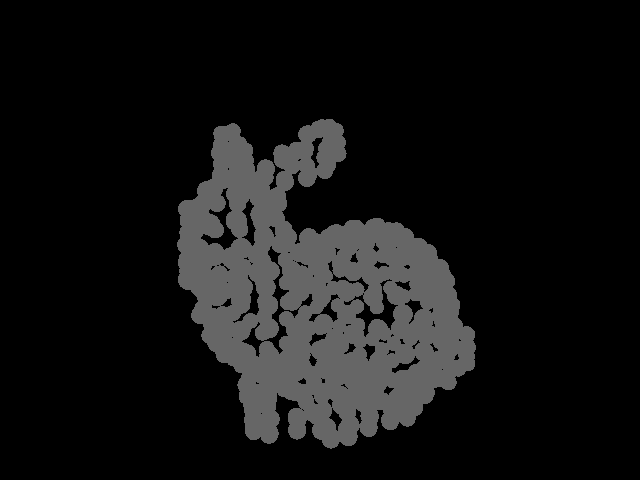
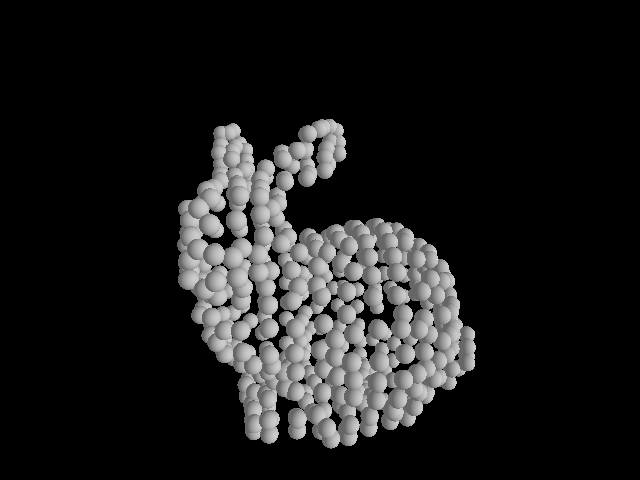
Restructured shading to more CUDA-friendly.

Changed region(s): [[0.2812, 0.25, 0.75, 0.9375]]

diff --git a/src/Scene.h b/src/Scene.h
@@ -36,25 +36,31 @@ class Scene
       void constructBVH();
 
       // Reads in scene data from a file and returns a new Scene containing the newly stored data.
-      static Scene* read(std::fstream & input);
+      static Scene *read(std::fstream & input);
 
       // Checks if a ray intersects any geometry in the scene, using structs.
       bool gpuHit(ray_t & ray, hit_t *data);
 
       // Checks if a ray intersects any geometry in the scene, using Geometry.
-      bool hit(ray_t & ray, hit_t *data);
+      bool cpuHit(ray_t & ray, hit_t *data);
 
       void cudaSetup(int chunkSize);
 
       void cudaCleanup();
       
       // Casts rays into the scene and returns correctly colored pixels.
-      Pixel* castRays(ray_t *ray, int num, int depth);
+      //void castRays(Pixel **pixels, ray_t *ray, int num, int depth);
+      Pixel *castRays(ray_t *ray, int num, int depth);
+
+      hitd_t *hit(ray_t *rays, int num, int depth);
 
       Pixel castRay(ray_t & ray, int depth);
 
+      // Calculates proper shading for a chunk of pixels.
+      Pixel *shadeArray(hitd_t *data, ray_t *view, int num);
+      
       // Calculates proper shading at the current point.
-      Pixel shade(hitd_t & data, ray_t & view);
+      Pixel shade(hitd_t & data, ray_t & view, bool hit);
 
       //vec3_t reflect(vec3_t incident, vec3_t normal);
 
@@ -74,7 +80,7 @@ class Scene
 
       sphere_t *spheresArray;
       
-      hitd_t *results;
+      //hitd_t *results;
 
       sphere_t *spheres_d;
       size_t spheres_size;

diff --git a/src/main.cpp b/src/main.cpp
@@ -237,6 +237,8 @@ int main(int argc, char **argv)
          }
       }
 
+      delete[] chunkPix;
+
       // Calculate and print chunk progress.
       float chunkProgress = (float)(chunkNdx + 1) / (float)numChunks * 100.0f;
       printf("\r%6.2f%%: %d/%d", chunkProgress, chunkNdx + 1, numChunks);
@@ -273,6 +275,8 @@ int main(int argc, char **argv)
    cout << "done." << endl;
 
    delete[] aRayArray;
+
+   delete[] pixResults;
 
    delete image;
 
